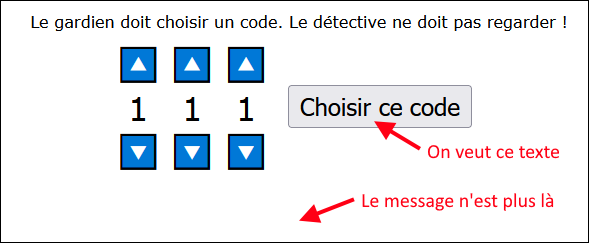
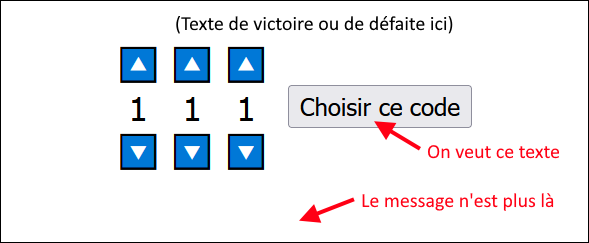
TP1 : précisions

Changed region(s): [[0.0306, 0.0576, 0.9779, 0.144]]

diff --git a/web/docs/03-tp/01-tp1.md b/web/docs/03-tp/01-tp1.md
@@ -113,6 +113,9 @@ Voici quelques pistes pour vous aider à compléter la fonction :
 
 1. Il faut copier / prendre en note la valeur des trois chiffres choisis dans les bonnes variables globales.
 2. Il faut remettre les trois chiffres affichés dans la page et leur variable associée à `1`. (Sinon on verrait le code choisi...)
+
+<center>![TODO 4](../../static/img/tp1/lancementJeu.png)</center>
+
 3. Il faut modifier une variable globale pour indiquer que c'est maintenant au tour du **détective** de jouer.
 4. Il faut « remettre » le nombre de tentatives restantes à `3`. (Comme ça on peut jouer plusieurs fois d'affilé sans réactualiser la page)
 5. Enfin, il y a quelques changements **visuels** à effectuer :
